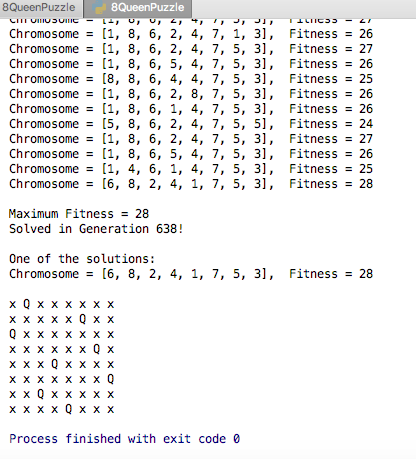
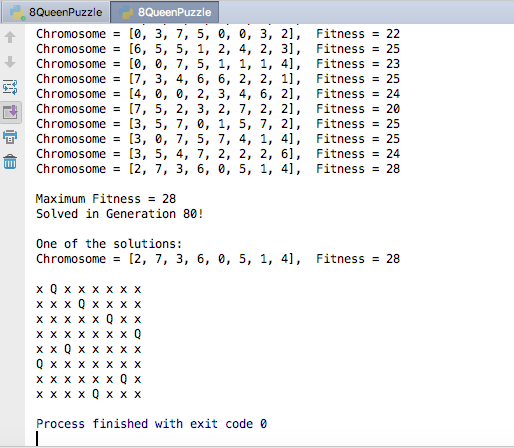
Add files via upload

Changed region(s): [[0.0, 0.0, 1.0, 0.9062], [0.0, 0.9375, 0.5938, 1.0]]

diff --git a/8QueenPuzzle.py b/8QueenPuzzle.py
@@ -20,7 +20,7 @@ import numpy as np
 
 # Define funtion on population
 def random_chromosome(size): #making random chromosomes
-    return [random.randint(1, n) for _ in range(n)]
+    return [random.randint(0, size-1) for _ in range(size)]
 
 
 # Define Fitness Function
@@ -73,7 +73,7 @@ def reproduce(x, y): #doing cross_over between two chromosomes
 def mutate(x):  #randomly changing the value of a random index of a chromosome
     n = len(x)
     c = random.randint(0, n - 1)
-    m = random.randint(1, n)
+    m = random.randint(0, n-1)
     x[c] = m
     return x
 
@@ -99,7 +99,7 @@ def print_chromosome(chrom):
 if __name__ == "__main__":
     n = int(input("Enter Number of Queens: "))
     maxFitness = (n * (n - 1)) / 2  # 8*7/2 = 28
-    population = [random_chromosome(n) for _ in range(1000)]
+    population = [random_chromosome(n) for _ in range(0,1000)]
     mutation_probability = 0.04
     generation = 1
 
@@ -117,6 +117,9 @@ if __name__ == "__main__":
             print("One of the solutions: ")
             chrom_out = chrom
             print_chromosome(chrom)
+
+    for i in range(n):
+        chrom_out[i]+=1
 
     board = []
 
